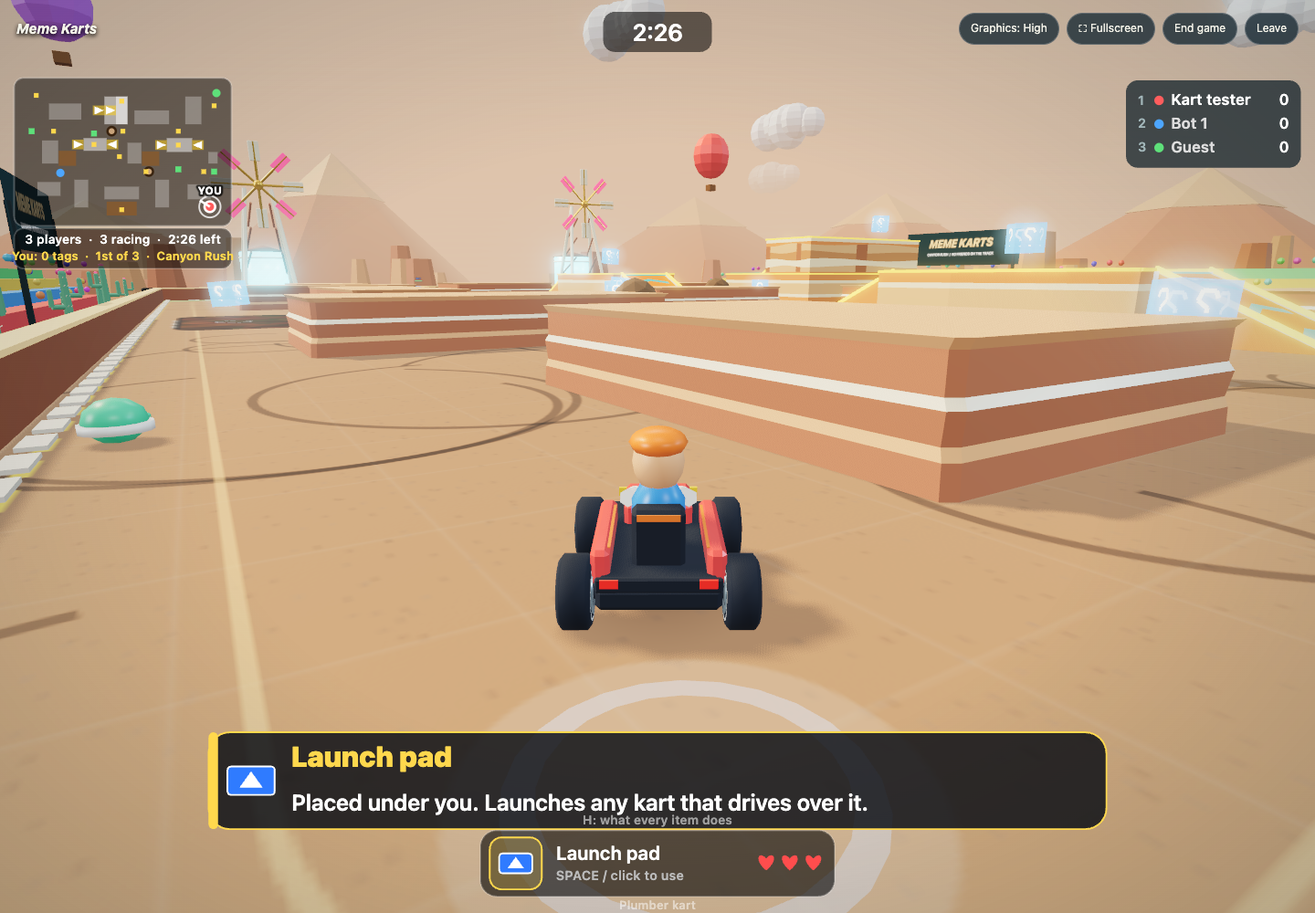
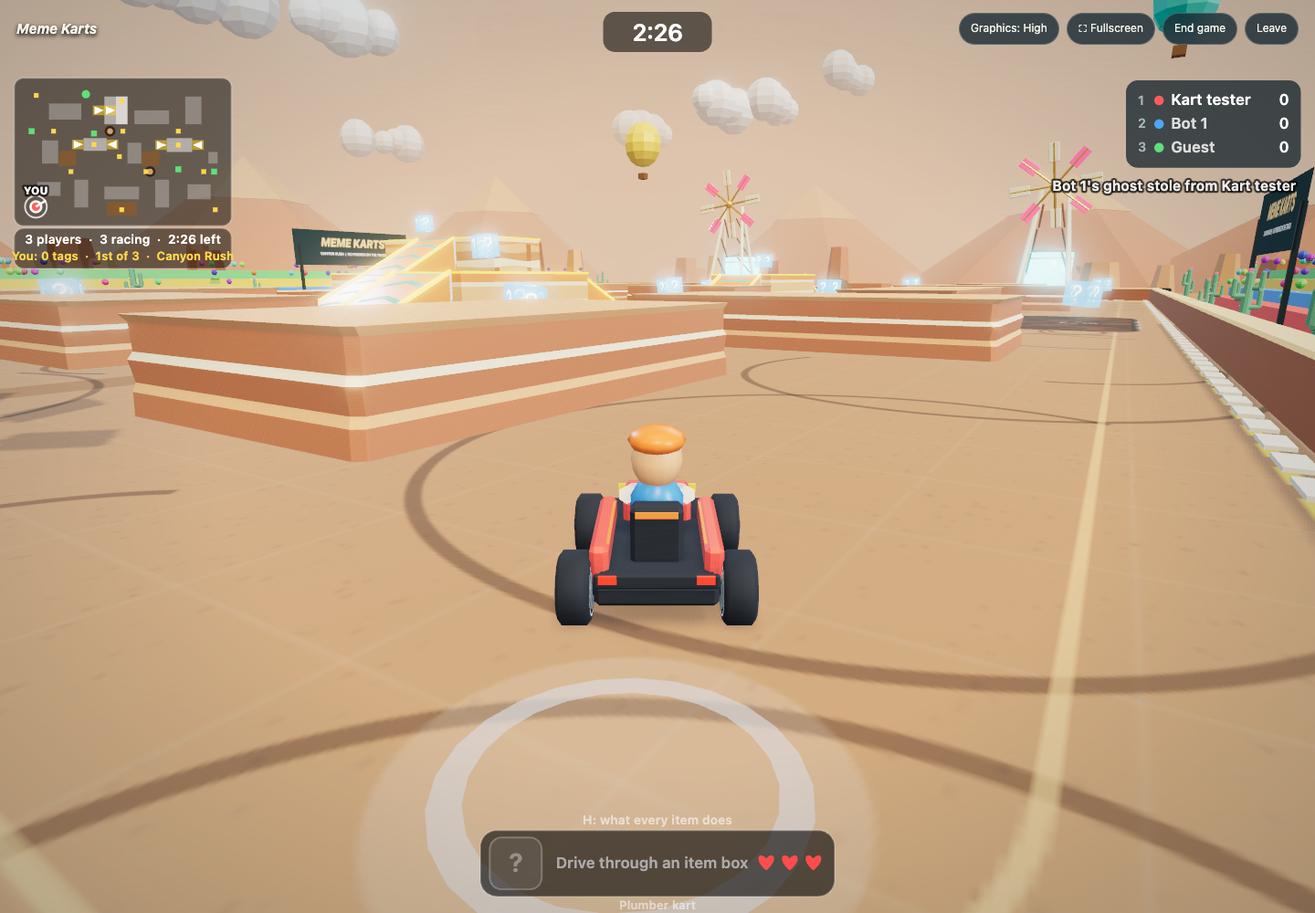
Pick your toy before the game, and a livelier home page
Figure, skin and starter blaster are chosen on the home page, with the
3D figure updating as you pick, or in the lobby; the game uses them from
the first second, and the in-game menu is now settings only. The home
page gains a scrolling ribbon of what is in each game and a gallery of
real screenshots from live matches. Deck rims are left off edges where
another deck continues, which clears the last flicker on Skyway Circuit.

diff --git a/public/index.html b/public/index.html
@@ -34,15 +34,32 @@
       <div id="gfxPick" class="gfx-pick"><span>Graphics</span><button data-gfx="low">Low</button><button data-gfx="medium">Medium</button><button data-gfx="high">High</button><small>Pick Low if the game lags.</small></div></div>
       <p class="hero-meta" id="heroMeta">2–8 drivers <span>•</span> 3 arenas <span>•</span> Absolutely no brakes*</p>
     </div>
-    <div class="hero-art"><div class="hero-orbit"></div><canvas id="kartShowcase" aria-label="A rotating 3D Meme Karts racer"></canvas><div class="ride-badge" id="heroBadge"><span>MEET YOUR NEW BAD IDEA</span><b>The rocket sled.</b><small>One of eight ridiculous rides.</small></div><div class="hero-sticker" id="heroSticker">READY.<br>SET.<br>CHAOS.</div></div>
+    <div class="hero-art"><div class="hero-orbit"></div><canvas id="kartShowcase" aria-label="A rotating 3D Meme Karts racer"></canvas><div id="toyPick" class="toy-pick" data-toypicker="full"></div><div class="ride-badge" id="heroBadge"><span>MEET YOUR NEW BAD IDEA</span><b>The rocket sled.</b><small>One of eight ridiculous rides.</small></div><div class="hero-sticker" id="heroSticker">READY.<br>SET.<br>CHAOS.</div></div>
   </div>
+  <section id="action" class="action-section">
+    <div class="ribbon" data-for="memekarts"><span class="ribbon-run"><b>19</b> items <i>✦</i> <b class="n-karts">3</b> arenas <i>✦</i> <b>10 m</b> sky towers <i>✦</i> <b>8</b> drivers <i>✦</i> a pie you aim <i>✦</i> no downloads <i>✦</i> <b>19</b> items <i>✦</i> <b class="n-karts">3</b> arenas <i>✦</i> <b>10 m</b> sky towers <i>✦</i> <b>8</b> drivers <i>✦</i> <b>19</b> items <i>✦</i> <b class="n-karts">3</b> arenas <i>✦</i> <b>10 m</b> sky towers <i>✦</i> <b>8</b> drivers <i>✦</i> a pie you aim <i>✦</i> no downloads <i>✦</i> <b>19</b> items <i>✦</i> <b class="n-karts">3</b> arenas <i>✦</i> <b>10 m</b> sky towers <i>✦</i> <b>8</b> drivers</span></div>
+    <div class="ribbon" data-for="blasters"><span class="ribbon-run"><b>9</b> blasters <i>✦</i> <b class="n-bl">3</b> maps <i>✦</i> Red vs Blue <i>✦</i> <b>5</b> rare power-ups <i>✦</i> a toy cannon <i>✦</i> <b>12</b> players <i>✦</i> <b>9</b> blasters <i>✦</i> <b class="n-bl">3</b> maps <i>✦</i> Red vs Blue <i>✦</i> <b>5</b> rare power-ups <i>✦</i> <b>9</b> blasters <i>✦</i> <b class="n-bl">3</b> maps <i>✦</i> Red vs Blue <i>✦</i> <b>5</b> rare power-ups <i>✦</i> a toy cannon <i>✦</i> <b>12</b> players <i>✦</i> <b>9</b> blasters <i>✦</i> <b class="n-bl">3</b> maps <i>✦</i> Red vs Blue <i>✦</i> <b>5</b> rare power-ups</span></div>
+    <div class="section-heading"><div><p class="eyebrow">SEE IT IN ACTION</p><h2>Real screenshots. Real chaos.</h2></div><span>Every one of these is a live match with bots.</span></div>
+    <div class="shots" data-for="memekarts">
+      <figure><img src="img/shots/karts_tower.jpg" alt="A kart climbing the sky tower ramp" loading="lazy"><figcaption><b>Sky towers</b>Two ramps up to a 10 m summit, and an item box at the top.</figcaption></figure>
+      <figure><img src="img/shots/karts_pie.jpg" alt="Aiming a cream pie" loading="lazy"><figcaption><b>Aim the pie</b>Hold SPACE, watch the arc, let go. Cream on their screen.</figcaption></figure>
+      <figure><img src="img/shots/karts_neon.jpg" alt="Driving through Neon Overdrive" loading="lazy"><figcaption><b>Neon Overdrive</b>Rooftops, portals and drones in a city at night.</figcaption></figure>
+      <figure><img src="img/shots/karts_canyon.jpg" alt="Climbing the canyon mesa" loading="lazy"><figcaption><b>Canyon Rush</b>Boulders, quicksand and one long climb.</figcaption></figure>
+    </div>
+    <div class="shots" data-for="blasters">
+      <figure><img src="img/shots/bl_cove.jpg" alt="The beached pirate ship in Pirate Cove" loading="lazy"><figcaption><b>Pirate Cove</b>Storm a beached pirate ship. The power-up is on the stern.</figcaption></figure>
+      <figure><img src="img/shots/bl_deck.jpg" alt="On the deck of the pirate ship" loading="lazy"><figcaption><b>Hold the deck</b>Stairs, jump pads and a crow's nest with a teleporter.</figcaption></figure>
+      <figure><img src="img/shots/bl_towers.jpg" alt="Block Towers at sunset" loading="lazy"><figcaption><b>Block Towers</b>Climb a pyramid, grab the Long Shot, own the catwalk.</figcaption></figure>
+      <figure><img src="img/shots/bl_fort.jpg" alt="Fort Cardboard" loading="lazy"><figcaption><b>Fort Cardboard</b>A tunnel, two galleries and a toy train down the middle.</figcaption></figure>
+    </div>
+  </section>
   <section id="arenas" class="arena-section"><div class="section-heading"><div><p class="eyebrow">PICK YOUR PLAYGROUND</p><h2>Pick your next bad idea.</h2></div><span>Different routes. Same bad intentions.</span></div><div id="homeMaps" class="map-grid"></div></section>
   <section id="toybox" class="arena-section hidden"><div class="section-heading"><div><p class="eyebrow">PICK YOUR ARENA</p><h2>Three maps. Pick one.</h2></div><span>Play now and Play with friends start on the map you pick here.</span></div><div id="homeBlMaps" class="map-grid" style="margin-bottom:40px"></div><div class="section-heading"><div><p class="eyebrow">WHAT IS IN THE TOY BOX</p><h2>Grab it before they do.</h2></div><span>Everyone starts with a sidearm. The good stuff is on the map.</span></div>
     <div class="toy-grid">
       <div class="toy-card"><b>Blasters to find</b><p>Scatter, Rapid, Burst, Long Shot, Boom Tube and more. Tagged players drop theirs.</p></div>
       <div class="toy-card"><b>Power-ups</b><p>Every 40 seconds one lands on the tower roof. Everyone knows. Everyone goes.</p></div>
       <div class="toy-card"><b>A map that fights back</b><p>Ramps, launch ramps, jump pads, teleporters, and a toy train on a schedule.</p></div>
-      <div class="toy-card"><b>Figures and skins</b><p>Eight toy figures and nine finishes, from Pastel to Gold to Rainbow. Level up to unlock.</p></div>
+      <div class="toy-card"><b>Figures and skins</b><p>Eight toy figures and nine finishes, from Pastel to Gold to Rainbow. All open: pick yours right here before you play.</p></div>
     </div></section>
   <section class="how-to" id="howTo"><b>THE RULES ARE SIMPLE.</b><span><kbd>W A S D</kbd> Drive</span><span><kbd>?</kbd> Grab an item</span><span><kbd>SPACE</kbd> Make it personal</span><small>* Okay, S reverses.</small></section>
   <footer><b id="footName" style="font-weight:inherit">MEME KARTS</b> <span>Made for the group chat.</span></footer>
@@ -65,6 +82,7 @@
       <div class="lobby-heading"><p class="eyebrow">GET THE CREW TOGETHER</p><h2>Choose your arena.</h2><p class="sub">The host picks the map. Everyone brings the chaos.</p></div>
       <div id="rotateHint" aria-hidden="true">Turn your phone sideways to play</div>
       <div id="modePick" class="hidden"><button data-mode="ffa">Free for all</button><button data-mode="teams">Teams <small>Red vs Blue. Best for parties.</small></button><button data-mode="loop">Back-to-back rounds <small>3 minutes each, then straight into the next.</small></button><button data-mode="one">One match <small>Back to the lobby after.</small></button></div>
+      <div id="lobbyToy" class="toy-pick lobby-toy hidden"><p class="eyebrow">YOUR TOY FOR THIS GAME</p><div data-toypicker="compact"></div></div>
       <div id="mapPicker" class="map-grid"></div>
       <button id="returnKarts" class="hidden">← Back to Meme Karts</button>
       <details id="arcade"><summary>More games (13 party games)</summary><div id="gameGrid"></div></details>
@@ -115,6 +133,7 @@
 </script>
 <script src="config.js"></script>
 <script src="gfx.js"></script>
+<script src="toy-picker.js"></script>
 <script src="vendor/socket.io.min.js"></script>
 <script src="p2p.js"></script>
 <script src="memekarts-maps.js"></script>

diff --git a/public/games/blasters.js b/public/games/blasters.js
@@ -5,8 +5,7 @@
 // BLENDER MODELS: .glb files in public/models/ named fps_* replace the placeholders built below. See fps3d.md.
 registerGame('blasters', (G) => {
   const B = window.BLASTERS, { WEAPONS, MELEE, LOADOUT, POWERS, PICKUP_INFO, P } = B;
-  const lockerBtn = document.createElement('button'); lockerBtn.className = 'small'; lockerBtn.id = 'lockerBtn'; lockerBtn.textContent = '🎨 Figure & skin (L)'; lockerBtn.title = 'Pick your figure, skin and starter blaster';
-  { const right = document.querySelector('#game header .right'); if (right) right.insertBefore(lockerBtn, right.firstChild); }
+  const lockerBtn = document.createElement('button'); lockerBtn.className = 'small'; lockerBtn.id = 'lockerBtn'; lockerBtn.textContent = '⚙ Settings (L)'; lockerBtn.title = 'Mouse sensitivity and field of view';
   lockerBtn.onclick = (e) => { e.stopPropagation(); setLocker(!locker); };
   const onGfx = () => { if (T && T.applyGfx) T.applyGfx(); }; window.addEventListener('fg-gfx', onGfx); /* graphics changed in the header or on the home page */
   let MAP = B.MAP; // the room's map; every snapshot names it (s.map) and the world is built for it
@@ -586,12 +585,9 @@ registerGame('blasters', (G) => {
     .tbb-foot{display:flex;align-items:center;justify-content:space-between;margin-top:12px;gap:10px;color:#8b91a5;font-size:12px}`; document.head.appendChild(st); }
   function drawLocker() {
     const col = G.player(G.me).color, lvl = levelOf(xp), nFig = unlocked();
-    G.ui.innerHTML = `<div class="tbb-locker" style="--pc:${col}"><h3>Locker</h3><div style="color:#8b91a5;font-size:12px">Level ${lvl} &nbsp;•&nbsp; pick any figure and any skin, it changes for everyone right away</div>
-      <h4>Figure</h4><div class="tbb-grid">${CHAR_NAMES.map((n, i) => `<button class="tbb-card ${i === charIdx ? 'sel' : ''} ${i < nFig ? '' : 'lock'}" data-fig="${i}"><div class="tbb-thumb" style="background-position:${[1.5, 33.8, 66.2, 98.5][i % 4]}% ${i < 4 ? 11.5 : 100}%"></div>${n}<small>${i < nFig ? '&nbsp;' : 'Level ' + Math.max(2, (i - 1) * 2)}</small></button>`).join('')}</div>
-      <h4>Skin</h4><div class="tbb-grid tbb-skins">${SKINS.map((k, i) => `<button class="tbb-card ${i === skinIdx ? 'sel' : ''} ${skinOpen(i) ? '' : 'lock'}" data-skin="${i}"><div class="tbb-sw" style="background:${k.css}"></div>${k.name}<small>${skinOpen(i) ? '&nbsp;' : 'Level ' + k.lvl}</small></button>`).join('')}</div>
-      <h4>Loadout: starter blaster</h4><div class="tbb-grid tbb-lo">${LOADOUT.map((w) => `<button class="tbb-card ${w === loadout ? 'sel' : ''}" data-lo="${w}">${w === 0 ? 'Sidearm only' : WEAPONS[w].name}<small>${w === 0 ? 'the classic' : 'half the spare darts'}</small></button>`).join('')}</div>
+    G.ui.innerHTML = `<div class="tbb-locker" style="--pc:${col}"><h3>Settings</h3><div style="color:#8b91a5;font-size:12px">Level ${lvl} &nbsp;•&nbsp; your figure, skin and starter blaster are picked before the game, on the home page or in the lobby</div>
       <h4>Settings</h4><div class="tbb-set"><label>Mouse sensitivity <b id="tbbSensV">${sensMul.toFixed(2)}</b><input id="tbbSens" type="range" min="0.2" max="3" step="0.05" value="${sensMul}"></label><label>Field of view <b id="tbbFovV">${baseFov}</b><input id="tbbFov" type="range" min="60" max="105" step="1" value="${baseFov}"></label></div>
-      <div class="tbb-foot"><span>Skins change your figure's colours. The big blasters are only found on the map.</span><button id="tbbClose" class="primary">Done (L)</button></div></div>`;
+      <div class="tbb-foot"><span>The big blasters are only found on the map.</span><button id="tbbClose" class="primary">Done (L)</button></div></div>`;
     for (const b of G.ui.querySelectorAll('[data-fig]')) b.onclick = () => { const i = +b.dataset.fig; if (i >= unlocked()) return G.toast('Reach level ' + Math.max(2, (i - 1) * 2) + ' to unlock ' + CHAR_NAMES[i]); charIdx = i; lset('tbb_char', i); hello(); drawLocker(); if (T) T.preview(charIdx, skinIdx); };
     for (const b of G.ui.querySelectorAll('[data-lo]')) b.onclick = () => { loadout = +b.dataset.lo; lset('tbb_lo', loadout); hello(); drawLocker(); G.toast(loadout ? `You will start each life with the ${WEAPONS[loadout].name}` : 'You will start with just the Dart Blaster'); };
     for (const b of G.ui.querySelectorAll('[data-skin]')) b.onclick = () => { const i = +b.dataset.skin; if (!skinOpen(i)) return G.toast('Reach level ' + SKINS[i].lvl + ' to unlock ' + SKINS[i].name); skinIdx = i; lset('tbb_skin', i); hello(); drawLocker(); if (T) T.preview(charIdx, skinIdx); };
@@ -601,7 +597,7 @@ registerGame('blasters', (G) => {
   }
   function setLocker(on) {
     if (on === locker || (on && over)) return; locker = on;
-    if (on) { if (document.pointerLockElement === canvas) document.exitPointerLock(); softLock = TOUCH; locked = TOUCH; firing = false; zooming = false; drawLocker(); if (T && T.ready) T.preview(charIdx, skinIdx); }
+    if (on) { if (document.pointerLockElement === canvas) document.exitPointerLock(); softLock = TOUCH; locked = TOUCH; firing = false; zooming = false; drawLocker(); }
     else { G.clearUI(); if (T) T.preview(null); }
   }
 
@@ -729,10 +725,10 @@ registerGame('blasters', (G) => {
     // death screen
     if (st && st.dead && !over) { ctx.fillStyle = 'rgba(10,0,0,.4)'; ctx.fillRect(0, 0, W, H); txt(deathBy || 'Tagged out!', cx, cy - 40, { size: 30, color: '#ff6b6b', weight: 900 }); txt(`Back in ${Math.max(0, st.dead).toFixed(1)}s`, cx, cy, { size: 18 }); txt(`${CHAR_NAMES[charIdx]} in ${SKINS[skinIdx].name}   •   press L for the locker`, cx, cy + 34, { size: 13, color: '#cfd6e4' }); }
     // not captured yet
-    if (!locked && me.alive && !over && !showGuide && !locker) { ctx.fillStyle = 'rgba(5,8,14,.6)'; ctx.fillRect(0, 0, W, H); txt('Click to play', cx, cy - 46, { size: 36, weight: 900, color: '#ffd84d' }); ['WASD move   •   Space jump (twice)   •   Shift dash   •   C crouch, tap while running to slide', 'Click fire   •   Right-click aim   •   E foam sword   •   Q drop blaster   •   R reload   •   1-9 or wheel: switch', 'Tab scores   •   H guide   •   L locker, skins and settings   •   M mute   •   Esc frees the mouse', ...(testRoom() ? ['Test room: [ and ] hand you each blaster in turn'] : [])].forEach((l, i) => txt(l, cx, cy + 4 + i * 24, { size: 14, color: '#e8eaf0' })); }
+    if (!locked && me.alive && !over && !showGuide && !locker) { ctx.fillStyle = 'rgba(5,8,14,.6)'; ctx.fillRect(0, 0, W, H); txt('Click to play', cx, cy - 46, { size: 36, weight: 900, color: '#ffd84d' }); ['WASD move   •   Space jump (twice)   •   Shift dash   •   C crouch, tap while running to slide', 'Click fire   •   Right-click aim   •   E foam sword   •   Q drop blaster   •   R reload   •   1-9 or wheel: switch', 'Tab scores   •   H guide   •   L settings   •   M mute   •   Esc frees the mouse', ...(testRoom() ? ['Test room: [ and ] hand you each blaster in turn'] : [])].forEach((l, i) => txt(l, cx, cy + 4 + i * 24, { size: 14, color: '#e8eaf0' })); }
     if (showScores || over) scoreboard();
     if (showGuide) guide();
-    if (!locker) txt(`Level ${levelOf(xp)}  •  ${CHAR_NAMES[charIdx]}  •  ${SKINS[skinIdx].name}  (L)`, 20, 52, { size: 11.5, align: 'left', color: '#ffd84d' });
+    if (!locker) txt(`Level ${levelOf(xp)}  •  ${CHAR_NAMES[charIdx]}  •  ${SKINS[skinIdx].name}`, 20, 52, { size: 11.5, align: 'left', color: '#ffd84d' });
     // minimap: a top-down of the arena in the top-left corner. You are the white arrow; teammates always show, enemies only when close or when they just fired.
     if (!locker && !showGuide) {
       const S = MAP.size, mw = 168, mx = 16, my = 70, k = mw / (S * 2), X = (x) => mx + (x + S) * k, Z = (z) => my + (z + S) * k;

diff --git a/public/style.css b/public/style.css
@@ -81,6 +81,35 @@ button:focus-visible,a:focus-visible,summary:focus-visible { outline:3px solid #
 .map-art { position:relative;height:160px;overflow:hidden;background:linear-gradient(150deg,#a9cfb7,#637d67); }.map-art svg { width:85%;height:135%;position:absolute;left:8%;top:-21%;transform:rotate(-18deg) skew(12deg);filter:drop-shadow(-9px 12px 0 #0002); }.neon .map-art { background:linear-gradient(135deg,#182045,#664985); }.canyon .map-art { background:linear-gradient(135deg,#eaba85,#b36a4b); }#modePick { display:flex;gap:10px;margin-bottom:16px;flex-wrap:wrap; }#modePick button { min-width:200px; }#modePick button { flex:1;padding:12px 16px;border-radius:12px;border:2px solid #ffffff22;background:#1b2b31;color:#fff;font-weight:800;text-align:left;display:grid;gap:3px; }#modePick button small { font-weight:400;font-size:11px;color:#9fb4b2; }#modePick button.sel { border-color:#ffd84d;background:#2d3a1f; }#modePick button:disabled { opacity:.75;cursor:default; }
 #rotateHint { display:none; }
 @media(pointer:coarse) and (orientation:portrait){ body.racing #rotateHint { display:flex;position:fixed;inset:0;z-index:50;align-items:center;justify-content:center;background:#0b161cf0;color:#fff;font:900 22px system-ui;text-align:center;padding:40px; } }
+.action-section { background:#101e24;color:#fff;padding:0 max(5%,calc((100vw - 1260px)/2)) 56px;overflow:hidden; }
+.action-section .section-heading { margin-top:44px; }.action-section .section-heading>span { color:#93aaa9; }.action-section .eyebrow { color:#d9fa78; }
+.ribbon { white-space:nowrap;font:800 15px system-ui;letter-spacing:.5px;color:#142d2a;background:#d9fa78;margin:0 calc(-1 * max(5%,calc((100vw - 1260px)/2)));padding:12px 0;overflow:hidden; }.ribbon-run { display:inline-block;animation:ribbon 40s linear infinite; }
+.ribbon b { font-size:19px;font-weight:900; }.ribbon i { font-style:normal;margin:0 18px;color:#ff794f; }
+#home.blasters .ribbon { background:#ff794f;color:#1b1310; }#home.blasters .ribbon i { color:#fff3b0; }
+@keyframes ribbon { from { transform:translateX(0); } to { transform:translateX(-50%); } }
+@media (prefers-reduced-motion: reduce) { .ribbon-run { animation:none; } }
+.shots { display:grid;grid-template-columns:repeat(4,minmax(0,1fr));gap:16px; }
+.shots figure { margin:0;border-radius:14px;overflow:hidden;background:#0b161c;border:1px solid #ffffff1c;transition:transform .2s,box-shadow .2s; }
+.shots figure:hover { transform:translateY(-6px) rotate(-.6deg);box-shadow:0 18px 40px #0008; }
+.shots img { display:block;width:100%;aspect-ratio:1280/760;object-fit:cover; }
+.shots figcaption { padding:12px 14px 14px;font-size:12.5px;color:#a8bdbb;display:grid;gap:4px; }.shots figcaption b { color:#fff;font-size:15px; }
+#home .shots[data-for="blasters"], #home .ribbon[data-for="blasters"] { display:none; }
+#home.blasters .shots[data-for="blasters"], #home.blasters .ribbon[data-for="blasters"] { display:grid; }
+#home.blasters .ribbon[data-for="blasters"] { display:block; }
+#home.blasters .shots[data-for="memekarts"], #home.blasters .ribbon[data-for="memekarts"] { display:none; }
+@media (max-width:900px) { .shots { grid-template-columns:repeat(2,minmax(0,1fr)); } }
+@media (max-width:560px) { .shots { grid-template-columns:1fr; } }
+.toy-pick { display:none; }
+#home.blasters .toy-pick { display:grid;gap:8px;position:absolute;left:50%;bottom:6%;transform:translateX(-50%);z-index:3;background:#0d1b22d9;border:1px solid #ffffff2a;border-radius:16px;padding:12px 14px;backdrop-filter:blur(10px);width:min(420px,92%); }
+#home.blasters #heroBadge { display:none; }
+.lobby-toy { display:grid;gap:8px;margin-bottom:18px; }.lobby-toy.hidden { display:none; }
+.tp-row { display:flex;align-items:center;gap:6px;flex-wrap:wrap; }.tp-row small { color:#93aaa9;font-size:11px;margin-right:2px; }
+.tp-name { font-size:20px;font-weight:900;min-width:120px;text-align:center;color:#fff; }
+.tp-arrow { width:34px;height:34px;border-radius:50%;padding:0;font-size:22px;line-height:1;background:#ffffff14;border:1px solid #ffffff40;color:#fff; }
+.tp-sw { width:30px;height:30px;border-radius:50%;padding:0;border:2px solid #ffffff40; }.tp-sw.sel { border-color:#d9fa78;box-shadow:0 0 0 3px #d9fa7855; }
+.tp-skinname { margin-left:4px;color:#d9fa78!important;font-weight:800; }
+.tp-chip { padding:5px 10px;border-radius:14px;font-size:12px;font-weight:800;background:#ffffff10;border:1px solid #ffffff30;color:#fff; }.tp-chip.sel { background:#d9fa78;color:#142d2a;border-color:#d9fa78; }
+.lobby-toy .tp-name { display:none; }.lobby-toy .tp-arrow { display:none; }
 .gfx-pick { display:flex;align-items:center;gap:8px;margin-top:14px;flex-wrap:wrap; }.gfx-pick>span { font-size:11px;font-weight:900;letter-spacing:1.5px;color:#cfe;margin-right:4px; }.gfx-pick button { padding:7px 14px;border-radius:20px;border:1px solid #ffffff40;background:#ffffff10;color:#fff;font-weight:800;font-size:13px; }.gfx-pick button.sel { background:#d9fa78;color:#142d2a;border-color:#d9fa78; }.gfx-pick small { color:#93aaa9;font-size:11px; }
 .bl-touch { display:none; }
 @media(pointer:coarse){ .bl-touch { display:block;position:absolute;inset:0;pointer-events:none;z-index:6;font:800 11px system-ui; }

diff --git a/public/toy-picker.js b/public/toy-picker.js
@@ -1,0 +1,41 @@
+// Toy Box Blasters: pick your figure, skin and starter blaster BEFORE a game (home page and lobby). The game reads the same
+// localStorage keys when it starts (tbb_char, tbb_skin, tbb_lo) and sends them to everyone, so a pick shows up for the whole room.
+(function () {
+  const CHAR_NAMES = ['Knight', 'Astronaut', 'Pirate', 'Robot', 'Wizard', 'Ninja', 'Chef', 'Dino Kid'];
+  const SKINS = ['Classic', 'Pastel', 'Midnight', 'Chrome', 'Neon', 'Ice', 'Gold', 'Lava', 'Rainbow'];
+  const SWATCH = ['#ff794f', 'linear-gradient(135deg,#fff,#ff794f)', 'radial-gradient(circle,#ff794f 0,#15181f 70%)', 'linear-gradient(135deg,#fff,#8a97a8,#fff,#6f7c8d)', 'radial-gradient(circle,#fff 0,#ff794f 45%,#000 100%)', 'linear-gradient(135deg,#ffffff,#9fdcff)', 'linear-gradient(135deg,#fff3b0,#ffb300,#8a5a00)', 'radial-gradient(circle,#ffd84d 0,#ff4d1f 45%,#2a0d05 100%)', 'linear-gradient(90deg,#ff5d5d,#ffd84d,#5ee07a,#4da6ff,#c77dff)'];
+  const STARTERS = [[0, 'Sidearm only'], [1, 'Scatter'], [2, 'Rapid'], [5, 'Burst']];
+  const ls = (k, d) => { try { const v = localStorage.getItem(k); return v === null ? d : +v; } catch (e) { return d; } };
+  const set = (k, v) => { try { localStorage.setItem(k, String(v)); } catch (e) { /* storage blocked */ } };
+  const state = () => ({ ch: ((ls('tbb_char', 4) % 8) + 8) % 8, sk: Math.max(0, Math.min(8, ls('tbb_skin', 0))), lo: STARTERS.some((s) => s[0] === ls('tbb_lo', 0)) ? ls('tbb_lo', 0) : 0 });
+  const listeners = [];
+  function change(k, v) { set(k, v); for (const f of listeners) f(state()); for (const el of document.querySelectorAll('[data-toypicker]')) draw(el); }
+  // the same look the game gives each skin (public/games/blasters.js paintSkin), for the 3D preview on the home page
+  function paint(mats, color, sk, t, C) {
+    for (const m of mats) {
+      m.transparent = false; m.opacity = 1; m.emissive.setHex(0); m.emissiveIntensity = 1; m.metalness = 0.05; m.roughness = 0.45;
+      if (sk === 1) { m.color.set(color).lerp(new C('#ffffff'), 0.55); m.roughness = 0.6; }
+      else if (sk === 2) { m.color.set('#15181f'); m.emissive.set(color); m.emissiveIntensity = 0.35; m.metalness = 0.4; m.roughness = 0.35; }
+      else if (sk === 3) { m.color.set('#f2f6fb'); m.metalness = 0.85; m.roughness = 0.12; m.emissive.set('#5d6a7a'); m.emissiveIntensity = 0.35; }
+      else if (sk === 4) { m.color.set(color); m.emissive.set(color); m.emissiveIntensity = 1.5; }
+      else if (sk === 5) { m.color.set('#d6f2ff'); m.transparent = true; m.opacity = 0.72; m.roughness = 0.04; m.metalness = 0.3; m.emissive.set('#7fd4ff'); m.emissiveIntensity = 0.18; }
+      else if (sk === 6) { m.color.set('#ffcf40'); m.metalness = 0.8; m.roughness = 0.24; m.emissive.set('#b87400'); m.emissiveIntensity = 0.55; }
+      else if (sk === 7) { m.color.set('#2a0d05'); m.roughness = 0.6; m.emissive.setHSL(0.03 + 0.04 * Math.sin(t * 2.3), 1, 0.5); m.emissiveIntensity = 1.5 + Math.sin(t * 5) * 0.7; }
+      else if (sk === 8) { m.color.setHSL((t * 0.35) % 1, 0.95, 0.55); m.emissive.copy(m.color); m.emissiveIntensity = 0.45; m.roughness = 0.35; }
+      else m.color.set(color);
+    }
+  }
+  function draw(el) {
+    const s = state(), compact = el.dataset.toypicker === 'compact';
+    el.innerHTML = `<div class="tp-row tp-fig"><button class="tp-arrow" data-tp="prev" aria-label="Previous figure">‹</button><b class="tp-name">${CHAR_NAMES[s.ch]}</b><button class="tp-arrow" data-tp="next" aria-label="Next figure">›</button>${compact ? CHAR_NAMES.map((n, i) => `<button class="tp-chip ${i === s.ch ? 'sel' : ''}" data-ch="${i}">${n}</button>`).join('') : ''}</div>`
+      + `<div class="tp-row tp-skins">${SKINS.map((n, i) => `<button class="tp-sw ${i === s.sk ? 'sel' : ''}" data-sk="${i}" title="${n}" aria-label="${n} skin" style="background:${SWATCH[i]}"></button>`).join('')}<small class="tp-skinname">${SKINS[s.sk]}</small></div>`
+      + `<div class="tp-row tp-lo"><small>Start with</small>${STARTERS.map(([w, n]) => `<button class="tp-chip ${w === s.lo ? 'sel' : ''}" data-lo="${w}">${n}</button>`).join('')}</div>`;
+    el.querySelector('[data-tp="prev"]').onclick = () => change('tbb_char', (s.ch + 7) % 8);
+    el.querySelector('[data-tp="next"]').onclick = () => change('tbb_char', (s.ch + 1) % 8);
+    for (const b of el.querySelectorAll('[data-ch]')) b.onclick = () => change('tbb_char', +b.dataset.ch);
+    for (const b of el.querySelectorAll('[data-sk]')) b.onclick = () => change('tbb_skin', +b.dataset.sk);
+    for (const b of el.querySelectorAll('[data-lo]')) b.onclick = () => change('tbb_lo', +b.dataset.lo);
+  }
+  window.TOY = { CHAR_NAMES, SKINS, state, paint, onChange: (f) => listeners.push(f), draw };
+  document.addEventListener('DOMContentLoaded', () => { for (const el of document.querySelectorAll('[data-toypicker]')) draw(el); });
+})();

diff --git a/tools/gallery.js b/tools/gallery.js
@@ -1,0 +1,24 @@
+// Takes the screenshots for the home page gallery (public/img/shots/*.jpg) from real games with bots.
+// Usage: node tools/gallery.js   (needs the local server on :3000)
+const { chromium } = require('playwright-core'); const path = require('path'), fs = require('fs'), os = require('os'); const { execSync } = require('child_process');
+const cache = path.join(os.homedir(), 'Library/Caches/ms-playwright'); const dir = fs.readdirSync(cache).filter((d) => /^chromium_headless_shell-\d+$/.test(d)).sort().pop();
+const exe = path.join(cache, dir, 'chrome-headless-shell-mac-arm64/chrome-headless-shell'); const sleep = (ms) => new Promise((r) => setTimeout(r, ms));
+const OUT = path.join(__dirname, '..', 'public', 'img', 'shots');
+const yawTo = (x, z, tx, tz) => Math.atan2(-(tx - x), -(tz - z));
+(async () => {
+  const b = await chromium.launch({ executablePath: exe, headless: true, args: ['--use-angle=metal', '--enable-gpu', '--ignore-gpu-blocklist'] });
+  async function room(game, map) { const page = await (await b.newContext({ viewport: { width: 1280, height: 760 } })).newPage(); await page.goto(`http://localhost:3000/?game=${game}&bltest=1&gfx=high`); await page.fill('#name', 'You'); await page.click('#createBtn'); await page.waitForSelector('#lobby:not(.hidden)');
+    await page.evaluate((m) => document.querySelector(`#mapPicker [data-map="${m}"]`).click(), map); await sleep(200); for (let i = 0; i < 5; i++) { await page.evaluate(() => document.querySelector('#botAdd').click()); await sleep(150); }
+    await page.evaluate(() => document.querySelector('#startBtn').click()); await page.waitForSelector('#game:not(.hidden)'); await sleep(3500); return page; }
+  const save = async (page, name) => { const png = path.join(OUT, name + '.png'); await page.screenshot({ path: png }); execSync(`sips -s format jpeg -s formatOptions 72 --resampleWidth 960 "${png}" --out "${path.join(OUT, name + '.jpg')}" >/dev/null && rm "${png}"`); };
+  // Meme Karts
+  let p = await room('memekarts', 'stadium'); await p.evaluate(() => window.G.send({ type: 'tp', x: 1150, y: 170, a: Math.PI })); await sleep(4800); await p.keyboard.down('w'); await sleep(900); await save(p, 'karts_tower'); await p.keyboard.up('w'); await p.context().close();
+  p = await room('memekarts', 'neon'); await p.evaluate(() => window.G.send({ type: 'tp', x: 300, y: 600, a: 0 })); await sleep(4800); await p.keyboard.down('w'); await sleep(1400); await save(p, 'karts_neon'); await p.keyboard.up('w'); await p.context().close();
+  p = await room('memekarts', 'canyon'); await p.evaluate(() => window.G.send({ type: 'tp', x: 560, y: 240, a: 0 })); await sleep(4800); await p.keyboard.down('w'); await sleep(1500); await save(p, 'karts_canyon'); await p.keyboard.up('w'); await p.context().close();
+  p = await room('memekarts', 'stadium'); await p.evaluate(() => { window.G.send({ type: 'tp', x: 700, y: 600, a: 0 }); }); await sleep(4800); await p.evaluate(() => window.G.send({ type: 'give', weapon: 'pie' })); await sleep(300); await p.keyboard.down(' '); await sleep(1000); await save(p, 'karts_pie'); await p.keyboard.up(' '); await p.context().close();
+  // Toy Box Blasters
+  for (const [map, x, y, z, tx, tz, name] of [['cove', -24, 0, -12, 0, 0, 'bl_cove'], ['towers', 22, 0, -4, -17, -17, 'bl_towers'], ['fort', 0, 0, -26, 0, 0, 'bl_fort'], ['cove', 0, 4.8, 8, 0, -20, 'bl_deck']]) {
+    p = await room('blasters', map); await p.mouse.click(640, 380); await sleep(400); await p.evaluate(([x, y, z, yaw]) => window.__blGo(x, y, z, yaw, -0.05), [x, y, z, yawTo(x, z, tx, tz)]); await sleep(1800); await save(p, name); await p.context().close();
+  }
+  console.log('gallery:', fs.readdirSync(OUT).join(' ')); await b.close(); process.exit(0);
+})().catch((e) => { console.error('TEST CRASHED:', e.message.split('\n')[0]); process.exit(1); });

diff --git a/tools/toy.js b/tools/toy.js
@@ -1,0 +1,27 @@
+// Dev check: figure, skin and starter blaster are picked before the game (home page and lobby) and the game uses them.
+const { chromium } = require('playwright-core'); const path = require('path'), fs = require('fs'), os = require('os');
+const BASE = process.env.BASE_URL || 'http://localhost:3000';
+const cache = path.join(os.homedir(), 'Library/Caches/ms-playwright'); const dir = fs.readdirSync(cache).filter((d) => /^chromium_headless_shell-\d+$/.test(d)).sort().pop();
+const exe = path.join(cache, dir, 'chrome-headless-shell-mac-arm64/chrome-headless-shell'); const sleep = (ms) => new Promise((r) => setTimeout(r, ms));
+let pass = 0, fail = 0; const check = (n, ok, x = '') => { ok ? pass++ : fail++; console.log(`${ok ? 'ok  ' : 'FAIL'} ${n}${x ? '  ' + x : ''}`); };
+(async () => {
+  const b = await chromium.launch({ executablePath: exe, headless: true, args: ['--use-angle=metal', '--enable-gpu', '--ignore-gpu-blocklist'] }); const errors = [];
+  const page = await (await b.newContext({ viewport: { width: 1440, height: 900 } })).newPage(); page.on('pageerror', (e) => errors.push(e.message));
+  await page.goto(BASE + '/?game=blasters'); await sleep(2000);
+  check('the home page shows the toy picker on the Toy Box Blasters tab', await page.isVisible('#toyPick'));
+  await page.click('#toyPick [data-tp="next"]'); await page.click('#toyPick [data-tp="next"]'); await page.click('#toyPick [data-sk="6"]'); await page.click('#toyPick [data-lo="5"]'); await sleep(1500);
+  const st = await page.evaluate(() => window.TOY.state()); check('picks are saved: figure, Gold skin, Burst starter', st.sk === 6 && st.lo === 5, JSON.stringify(st));
+  await page.screenshot({ path: path.join(__dirname, 'shots', 'toy_home.png') });
+  await page.fill('#name', 'Toy'); await page.click('#createBtn'); await page.waitForSelector('#lobby:not(.hidden)', { timeout: 20000 }); await sleep(600);
+  check('the lobby shows the same picker', await page.isVisible('#lobbyToy'));
+  await page.click('#lobbyToy [data-ch="3"]'); await sleep(300); const st2 = await page.evaluate(() => window.TOY.state()); check('picking Robot in the lobby is saved', st2.ch === 3);
+  await page.screenshot({ path: path.join(__dirname, 'shots', 'toy_lobby.png') });
+  await page.evaluate(() => document.querySelector('#botAdd').click()); await sleep(300); await page.evaluate(() => document.querySelector('#startBtn').click()); await page.waitForSelector('#game:not(.hidden)', { timeout: 20000 }); await sleep(3000);
+  const me = await page.evaluate(() => new Promise((res) => window.G.socket.once('g:state', (s) => { const p = s.ps.find((q) => q.id === window.G.me); res({ ch: p.ch, sk: p.sk, own: p.own }); })));
+  check('the game uses them: the server has Robot in Gold for everyone', me.ch === 3 && me.sk === 6, JSON.stringify(me));
+  check('...and the player starts holding the Burst Blaster too', (me.own & (1 << 5)) !== 0);
+  await page.keyboard.press('l'); await sleep(400); const lockerHas = await page.evaluate(() => ({ figs: document.querySelectorAll('[data-fig]').length, skins: document.querySelectorAll('[data-skin]').length, sens: !!document.querySelector('#tbbSens') }));
+  check('in the game, L opens settings only: no figure or skin changes mid-game', lockerHas.figs === 0 && lockerHas.skins === 0 && lockerHas.sens, JSON.stringify(lockerHas));
+  check('no page errors', errors.length === 0, errors.slice(0, 2).join(' | '));
+  console.log(`\n${pass} passed, ${fail} failed`); await b.close(); process.exit(fail ? 1 : 0);
+})().catch((e) => { console.error('TEST CRASHED:', e.message.split('\n')[0]); process.exit(1); });

diff --git a/public/kart-home.js b/public/kart-home.js
@@ -36,12 +36,17 @@
     });
     // Toy Box Blasters showcase: a figure holding a blaster, shown instead of the kart when that game's tab is selected
     const toy = new T.Group(); toy.visible = false; toy.scale.setScalar(1.5); scene.add(toy); const toyPaint = [];
-    new window.GLTFLoader().load('/models/fps_char_4.glb', gltf => { const f = gltf.scene; f.rotation.y = Math.PI; f.traverse(o => { if (o.isMesh) { o.castShadow = o.receiveShadow = true; if (o.material.name === 'Paint') toyPaint.push(o.material); } }); toy.add(f); });
+    // the figure and skin chosen in the picker below it (public/toy-picker.js); swapping figures loads that model
+    let fig = null, figCh = -1; const figCache = {};
+    function showFig(ch) { if (ch === figCh) return; figCh = ch; const put = (f) => { if (figCh !== ch) return; if (fig) toy.remove(fig); fig = f; toy.add(f); toyPaint.length = 0; f.traverse(o => { if (o.isMesh && o.material.name === 'Paint') toyPaint.push(o.material); }); };
+      if (figCache[ch]) return put(figCache[ch]);
+      new window.GLTFLoader().load('/models/fps_char_' + ch + '.glb', gltf => { const f = gltf.scene; f.rotation.y = Math.PI; f.traverse(o => { if (o.isMesh) { o.castShadow = o.receiveShadow = true; o.material = o.material.clone(); } }); figCache[ch] = f; put(f); }); }
+    showFig(window.TOY ? window.TOY.state().ch : 4); if (window.TOY) window.TOY.onChange((st) => showFig(st.ch));
     new window.GLTFLoader().load('/models/fps_w_scatter.glb', gltf => { const w = gltf.scene; w.position.set(.33, 1.2 + .17 - .27, -.40); w.traverse(o => { if (o.isMesh) o.castShadow = true; }); toy.add(w); });
     const observer = new ResizeObserver(() => {const r=canvas.getBoundingClientRect();renderer.setSize(r.width,r.height,false);camera.aspect=r.width/Math.max(1,r.height);camera.updateProjectionMatrix();}); observer.observe(canvas);
     let previous=0;
     const reduced=matchMedia('(prefers-reduced-motion: reduce)').matches;
-    function frame(now){ requestAnimationFrame(frame);const dt=Math.min(.05,(now-previous)/1000);previous=now;if(document.hidden || document.querySelector('#home').classList.contains('hidden')) return;const toyOn=window.selectedGame==='blasters';if(kart)kart.visible=!toyOn;toy.visible=toyOn;if(kart&&!reduced) kart.rotation.y+=dt*.18;if(!reduced)toy.rotation.y+=dt*.35;for(const m of toyPaint)m.color.setHSL((now*.00006)%1,.75,.55);renderer.render(scene,camera); }
+    function frame(now){ requestAnimationFrame(frame);const dt=Math.min(.05,(now-previous)/1000);previous=now;if(document.hidden || document.querySelector('#home').classList.contains('hidden')) return;const toyOn=window.selectedGame==='blasters';if(kart)kart.visible=!toyOn;toy.visible=toyOn;if(kart&&!reduced) kart.rotation.y+=dt*.18;if(!reduced)toy.rotation.y+=dt*.35;if(window.TOY)window.TOY.paint(toyPaint,'#ff794f',window.TOY.state().sk,now/1000,T.Color);renderer.render(scene,camera); }
     requestAnimationFrame(frame);
   }
   window.addEventListener('three-ready', showcase); showcase();

diff --git a/public/games/memekarts.js b/public/games/memekarts.js
@@ -260,7 +260,7 @@ registerGame('memekarts', (G) => {
           if (Math.abs(x) < OX + 70 && Math.abs(z) < OZ + 80) continue;
           // Keep the close landmark strip readable; scenery beyond it supplies the skyline.
           if (Math.abs(x) < OX + 235 && Math.abs(z) < OZ + 180) continue;
-          if(night){const height=70+(i%7)*32+(i%5)*1.7; /* the small per-building offset keeps neighbouring roofs out of one plane */scene.add(box(45,height,50,M3('#23334d'),x,height/2,z),box(46,2,51,glow(i%2?'#68efff':'#ff75c5',1.6),x,height,z));continue;}
+          if(night){const height=70+(i%7)*32+(i%5)*1.7+Math.random()*2.5; /* the small per-building offset keeps neighbouring roofs out of one plane */scene.add(box(45,height,50,M3('#23334d'),x,height/2,z),box(46,2,51,glow(i%2?'#68efff':'#ff75c5',1.6),x,height,z));continue;}
           if(desert){const stone=M3(i%2?'#b66d47':'#d59865');scene.add(cyl(20+(i%4)*8,35+(i%4)*8,70+(i%5)*20,stone,x,25+(i%5)*10,z,6));continue;}
           const sc = 0.8 + Math.random() * 1.4, lm = leafs[i % 4];
           const t = asset('tree', 50 * sc); if (t) { t.traverse((m) => { if (m.isMesh && /mint|leaf|pine|green/i.test(m.material.name || '')) m.material.color.multiplyScalar(0.42 + (i % 4) * 0.06); }); t.position.set(x, 0, z); t.rotation.y = a; scene.add(t); continue; } /* the model's foliage is very bright: deepen it and vary it per tree */
@@ -351,6 +351,7 @@ registerGame('memekarts', (G) => {
         for (const [x0, y0, x1, y1] of edges) {
           const horiz = y0 === y1, lo = horiz ? x0 : y0, hi = horiz ? x1 : y1; let cuts = [];
           for (const rp of map.ramps || []) { const touch = horiz ? ((rp.dir === 'S' && Math.abs(rp.y + rp.h - y0) < 2) || (rp.dir === 'N' && Math.abs(rp.y - y0) < 2)) && rp.x < hi && rp.x + rp.w > lo : ((rp.dir === 'E' && Math.abs(rp.x + rp.w - x0) < 2) || (rp.dir === 'W' && Math.abs(rp.x - x0) < 2)) && rp.y < hi && rp.y + rp.h > lo; if (touch) cuts.push(horiz ? [rp.x, rp.x + rp.w] : [rp.y, rp.y + rp.h]); }
+          for (const o of map.decks || []) { if (o === d || window.MEMEKARTS_MAPS.deckZ(o) !== DZ) continue; /* where another deck at the same height continues past this edge, there is no drop: no rim, and no two rims in one plane */ if (horiz ? (o.y <= y0 + 1 && o.y + o.h >= y0 - 1) : (o.x <= x0 + 1 && o.x + o.w >= x0 - 1)) { const a0 = Math.max(lo, horiz ? o.x : o.y), a1 = Math.min(hi, horiz ? o.x + o.w : o.y + o.h); if (a1 > a0) cuts.push([a0, a1]); } }
           cuts.sort((p, q) => p[0] - q[0]); let at = lo; const segs = []; for (const [c0, c1] of cuts) { if (c0 > at) segs.push([at, c0]); at = Math.max(at, c1); } if (at < hi) segs.push([at, hi]);
           for (const [s0, s1] of segs) { const len = s1 - s0, mid = (s0 + s1) / 2; const rim = horiz ? box(len, 2.4, 3, glow(hot, night ? 1.8 : 0.9), mid - OX, DZ + 1.2, y0 - OZ) : box(3, 2.2, len, glow(hot, night ? 1.8 : 0.9), x0 - OX, DZ + 1.1, mid - OZ); rim.castShadow = false; scene.add(rim); }
         }

diff --git a/public/app.js b/public/app.js
@@ -140,7 +140,7 @@
     $('#returnKarts').classList.add('hidden'); // replaced by the two-game switch above the lobby heading
     for (const b of document.querySelectorAll('#gameSwitch [data-game]')) { b.classList.toggle('sel', b.dataset.game === room.gameId); b.disabled = !isHost; b.onclick = () => socket.emit('pick', { gameId: b.dataset.game }); }
     $('#arcade').classList.toggle('other', !kartGame && room.gameId !== 'blasters');
-    $('#modePick').classList.toggle('hidden', !blGame);
+    $('#modePick').classList.toggle('hidden', !blGame); $('#lobbyToy').classList.toggle('hidden', !blGame); /* figure and skin are picked here and on the home page, before the game */
     for (const b of document.querySelectorAll('#modePick [data-mode]')) { b.classList.toggle('sel', b.dataset.mode === (room.blastersMode || 'ffa') || b.dataset.mode === (room.blastersRounds || 'loop')); b.disabled = !isHost; b.onclick = () => socket.emit('pickMode', { mode: b.dataset.mode }); }
     $('#mapPicker').innerHTML = blGame ? window.BLASTERS.MAPS.map(m => blMapCard(m, m.id === room.blastersMap, !isHost)).join('') : window.MEMEKARTS_MAPS.map(m => window.kartMapCard(m, m.id === room.mapId, !isHost)).join('');
     for (const el of $('#mapPicker').querySelectorAll('[data-map]')) el.onclick = () => socket.emit('pickMap', { mapId: el.dataset.map });

diff --git a/tools/zfight.js b/tools/zfight.js
@@ -5,7 +5,7 @@ const { chromium } = require('playwright-core'); const { spawn } = require('chil
 const PORT = 9700 + Math.floor(Math.random() * 200), BASE = `http://localhost:${PORT}`;
 const cache = path.join(os.homedir(), 'Library/Caches/ms-playwright'); const dir = fs.readdirSync(cache).filter((d) => /^chromium_headless_shell-\d+$/.test(d)).sort().pop();
 const exe = path.join(cache, dir, 'chrome-headless-shell-mac-arm64/chrome-headless-shell'); const sleep = (ms) => new Promise((r) => setTimeout(r, ms));
-const JOBS = [['memekarts', 'stadium', 0.05], ['memekarts', 'neon', 0.05], ['memekarts', 'canyon', 0.05], ['blasters', 'fort', 0.004], ['blasters', 'towers', 0.004], ['blasters', 'cove', 0.004]];
+const JOBS = [...require('../public/memekarts-maps.js').map((m) => ['memekarts', m.id, 0.05]), ['blasters', 'fort', 0.004], ['blasters', 'towers', 0.004], ['blasters', 'cove', 0.004]];
 (async () => {
   const srv = spawn('node', ['server.js'], { cwd: path.join(__dirname, '..'), env: { ...process.env, PORT }, stdio: ['ignore', 'pipe', 'pipe'] }); await sleep(900);
   const b = await chromium.launch({ executablePath: exe, headless: true, args: ['--use-angle=metal', '--enable-gpu', '--ignore-gpu-blocklist'] }); let total = 0;

diff --git a/public/home.js b/public/home.js
@@ -35,5 +35,5 @@
   // shooter maps on the home page: the choice goes to the room when you press Play now or Play with friends
   function blCards() { const el = $('#homeBlMaps'); if (!el || !window.blMapCard || !window.BLASTERS) return; el.innerHTML = window.BLASTERS.MAPS.map((m) => window.blMapCard(m, m.id === (window.selectedBlMap || 'fort'))).join(''); for (const b of el.querySelectorAll('[data-map]')) b.onclick = () => { window.selectedBlMap = b.dataset.map; try { localStorage.setItem('fg_blmap', b.dataset.map); } catch (e) { /* ignore */ } blCards(); }; }
   try { window.selectedBlMap = localStorage.getItem('fg_blmap') || 'fort'; } catch (e) { window.selectedBlMap = 'fort'; }
-  window.addEventListener('load', blCards);
+  window.addEventListener('load', () => { blCards(); for (const e of document.querySelectorAll('.n-karts')) e.textContent = window.MEMEKARTS_MAPS.length; for (const e of document.querySelectorAll('.n-bl')) e.textContent = window.BLASTERS ? window.BLASTERS.MAPS.length : 3; }); /* the ribbon counts the real maps */
 })();

diff --git a/CLAUDE.md b/CLAUDE.md
@@ -28,7 +28,7 @@ Browser party games for friends on a call. Node + Express + Socket.IO server, va
   - `node tools/kart-items-check.js` — every Meme Karts item fired at placed karts, asserting the logical outcome (hits, homing, bounces, steals, immunities, timers). `node tools/blasters-items-check.js` — every shooter pickup, power-up and hitscan blaster rule on both maps. Run both after touching items. Power-ups: `POWERS` in the shared file; `rare: true` ones come up through `rollPower()` (25%): `inf` (no ammo use, server), `vamp` (heal on hit, server), `moon` (`body.grav` in the shared physics, set by the client and the bots), `bighead` (client-only: bigger `headR` in `rayPlayer` and scaled heads), `shadow` (server: hits do 999; client: figure hidden from enemies; bots ignore them).
   - `node tools/mobile.js` — the site on an emulated iPhone. Both main games draw a minimap in the top-left of the HUD (you as a marker, players, hazards) with the match numbers under it; the shooter shows enemies only when close or just fired (`recentShot`).  (touch, no pointer lock): home and lobby fit, Meme Karts d-pad, Toy Box Blasters joystick / look drag / fire button. Touch controls: `.kart-touch-controls` in `public/games/memekarts.js` (Codex's), `.bl-touch` built by `buildTouch()` in `public/games/blasters.js` (shown only under `pointer:coarse`; the shooter runs soft-locked on touch). `#rotateHint` asks for landscape.
   - `node tools/gfx.js` — the graphics setting (`public/gfx.js`: Low/Medium/High in `localStorage.fg_gfx`, `?gfx=` override; games read `window.FG_GFX.cfg()` and apply live on the `fg-gfx` event via `T.applyGfx()`). `node tools/zfight.js` — walks the rendered scene of all six maps for flush same-facing surfaces (z-fighting). Timing-based browser drives (`kart-ramp.js`) fail when several run at once; run them one at a time.
-  - Toy Box Blasters rounds: 3 minutes, then the winner for `NEXT_IN` (6 s) and `newRound()` on the same map unless the lobby option is One match (`api.memory.blastersRounds === 'one'`, which `tools/fullrun.js` uses). All figures and skins are open; the in-game 🎨 button opens the locker. The HUD shows the held blaster as a picture rendered from its model (`T.icon(w)`).
+  - Toy Box Blasters rounds: 3 minutes, then the winner for `NEXT_IN` (6 s) and `newRound()` on the same map unless the lobby option is One match (`api.memory.blastersRounds === 'one'`, which `tools/fullrun.js` uses). Figure, skin and starter blaster are picked BEFORE a game, on the home page (3D preview) and in the lobby (`public/toy-picker.js`, localStorage `tbb_char`/`tbb_skin`/`tbb_lo`, read by the game at start); the in-game L menu is settings only. `node tools/toy.js` checks it. The home page gallery images come from `node tools/gallery.js` (`public/img/shots/`). The HUD shows the held blaster as a picture rendered from its model (`T.icon(w)`).
   - `node tools/items.js [mapId]`, `node tools/playnow.js`, `node tools/shapes.js`, `node tools/glbinfo.js <file.glb>`.
 
 ## Conventions
